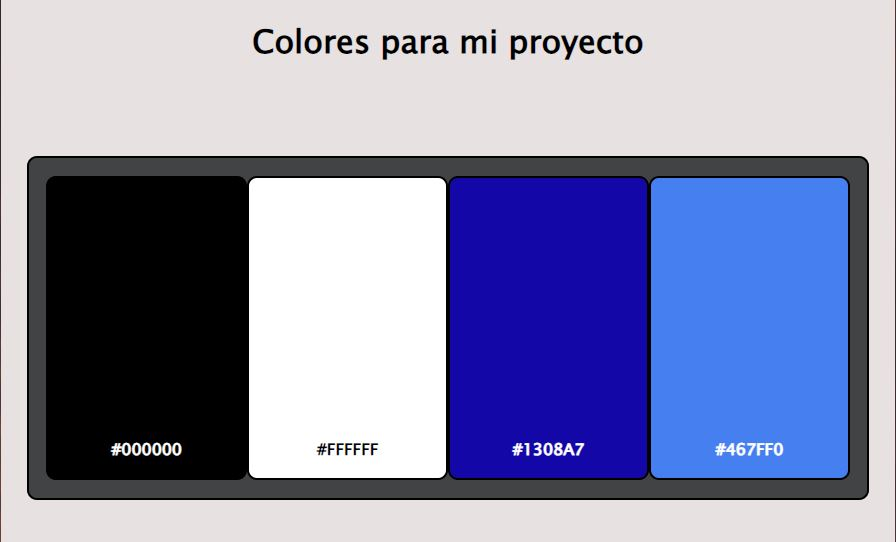
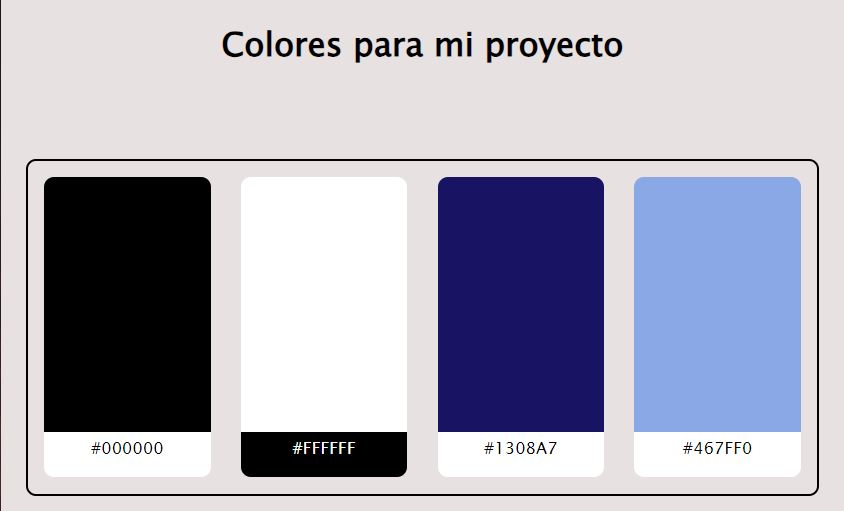
coloresterminado

diff --git a/coloresProyecto_EstefaniaOrtega/styles/styles.css b/coloresProyecto_EstefaniaOrtega/styles/styles.css
@@ -1,21 +1,20 @@
 body {
   font-family: "Lucida Sans", "Lucida Sans Regular", "Lucida Grande",
     "Lucida Sans Unicode", Geneva, Verdana, sans-serif;
-  font-weight: bold;
-  background-color: rgb(231, 225, 225);
+  font-size: calc(0.5em + 1vw); /*fuente responsive*/
+  background: #e7e1e1;
 }
 .contenedor {
   display: flex;
-  justify-content: center;
+  justify-content: space-between;
   border: 2px solid #000;
   border-radius: 10px;
   margin: 2%;
   padding: 2%;
-  background-color: #9c9d9e;
 }
 .item {
   color: #ffffff;
-  width: 25%;
+  width: 22%;
   height: 300px;
   display: flex;
   justify-content: center;
@@ -26,18 +25,18 @@ h1 {
   text-align: center;
 }
 .negro {
-  background-color: #000000;
-  color: white;
+  background: linear-gradient(#000000 85%, #ffffff 15%);
+  color: #000000;
 }
 .blanco {
-  background-color: #ffffff;
-  color: #000;
+  background: linear-gradient(#ffffff 85%, #000000 15%);
+  color: #ffffff;
 }
 .azul {
-  background-color: #1308a7;
-  color: white;
+  background: linear-gradient(#181363 85%, #ffffff 15%);
+  color: #000000;
 }
 .azulClaro {
-  background-color: #467ff0;
-  color: white;
+  background: linear-gradient(#8aa8e5 85%, #ffffff 15%);
+  color: #000000;
 }

diff --git a/coloresProyecto_EstefaniaOrtega/readme.md b/coloresProyecto_EstefaniaOrtega/readme.md
@@ -2,9 +2,15 @@
 
 # Diseño de Interfaces Web
 
-## Autor: Estefania Ortega Muñoz
+## Autor: Estefanía Ortega Muñoz
 
-### El color es una herramienta muy útil para crear una identidad de marca y desencadenar emociones específicas en los usuarios. He elegido colores blanco y negro por el contraste que hacen, son colores simples, dan claridad a la aplicación y la hace legible para el usuario, el color blanco en concreto implica limpieza y transparencia, después he agregado el color azul por que es un color que transmite confianza y compromiso que es el objetivo de la aplicación. Los tonos azules seran para fondo de página y el blanco y negro para fuentes y botones.
+### El color es una herramienta fundamental para crear una identidad de marca y desencadenar emociones específicas en los usuarios. He elegido los colores blanco y negro por el contraste que ofrecen. Son colores simples que aportan claridad a la aplicación y la hacen legible para el usuario. El color blanco, en particular, implica limpieza y transparencia. Además, he agregado el color azul porque transmite confianza y compromiso, que es el objetivo de la aplicación. Los tonos azules se utilizarán para el fondo de la página, mientras que el blanco y negro se emplearán para las fuentes y los botones.
+
+## Fondo: Azul claro
+
+## Fuente: Negro
+
+## Botones: Blanco y azul
 
 ![Captura ejemplo colores](Captura.JPG)
 
